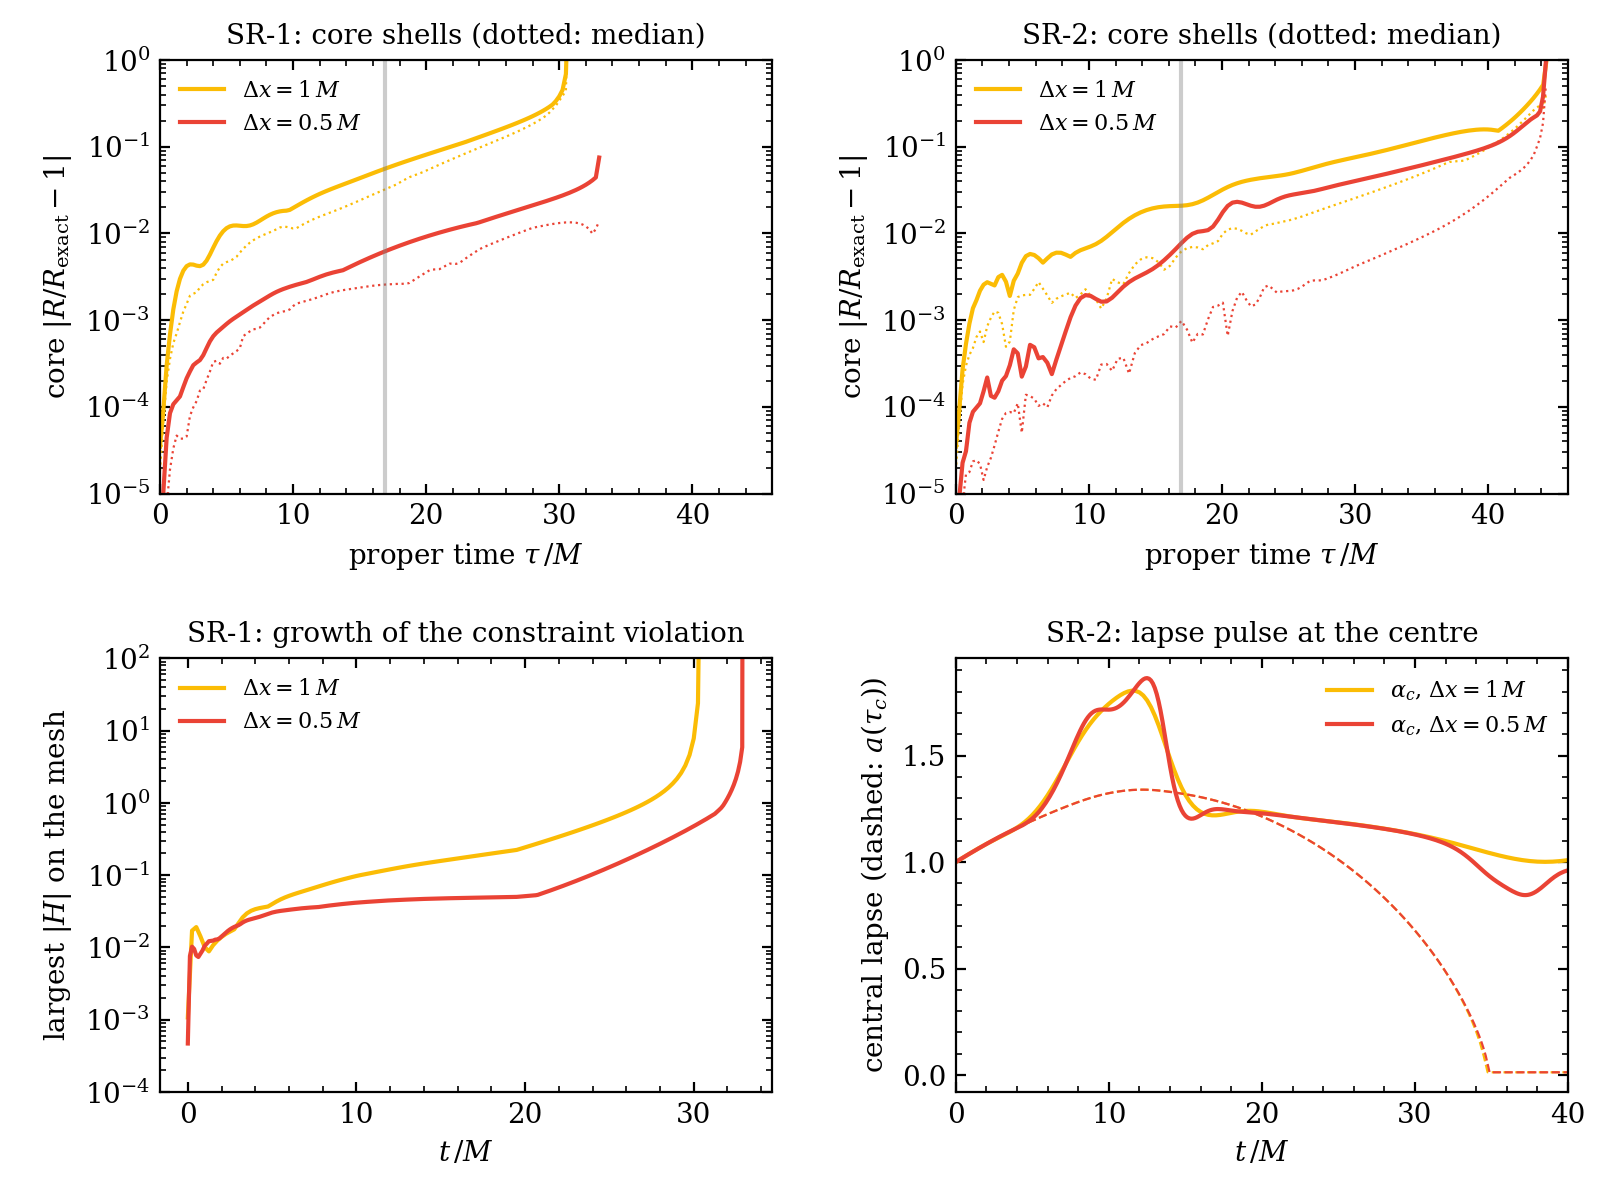
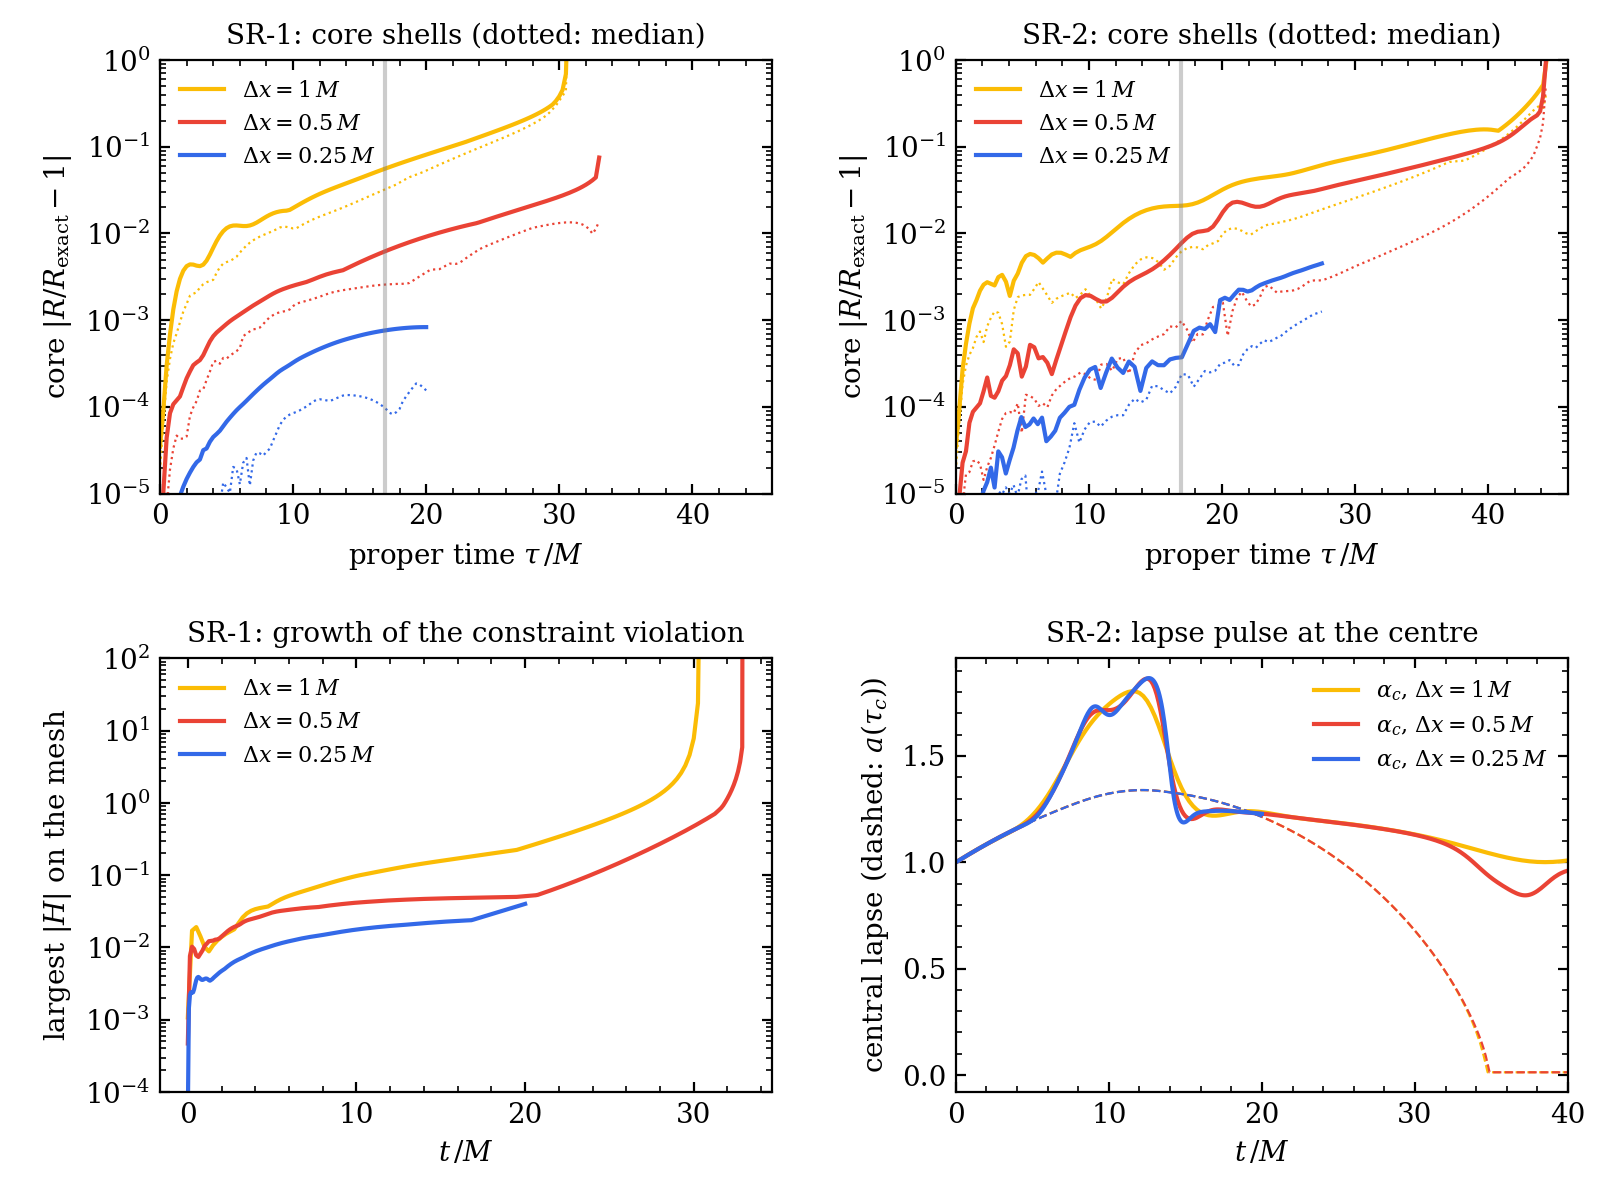
runs_ball: dx = M/4 outcome (prediction R): R1, R3, R4 hold; R2 holds for SR-1, fails for SR-2 on the turnaround time
SR-1 at dx = M/4 (A-emd-pbh-20261115-164539-0b18e84): mean core turnaround error -0.0125 M,
largest core |eps| at tau = 16.894 7.6e-4, largest |H| at t = 20 0.040. SR-2
(A-emd-pbh-20261115-164541-0b18e84): +0.031 M, 3.7e-4; lapse pulse > 0.1 at t = 6.625, peak
1.87. Core-shell errors fall at apparent order 3.0 (SR-1) and 4.3 (SR-2) between M/2 and M/4.
Analysis A-20261115-182657-53da696 (nrpic-run); figures sr*_n256L32_* and the updated summary.

Claude-Session: https://claude.ai/code/session_01VD79cUYemmpt27M8dtYPfW

diff --git a/tracks/A-emd-pbh/runs_ball/JOURNAL.md b/tracks/A-emd-pbh/runs_ball/JOURNAL.md
@@ -287,3 +287,31 @@ chosen as before. Cost about 0.12 card-hours per gauge.
   core_requests-b and core_scalar-2 were published, neither with a lapse option).
 - Card time: 0.28 card-hours used (0.104 + 0.149 + 0.028); the two pending runs ask at
   most 2 x 0.25 by their wall limits (about 0.12 each expected).
+
+## 2026-11-15, entry 6 (lead of A-emd-pbh): outcome of prediction R (dx = M/4 to t = 20)
+
+Runs closed with `runreg.py finish` by the lead: A-emd-pbh-20261115-164539-0b18e84 (SR-1,
+357 s = 0.099 card-hours) and -164541-0b18e84 (SR-2, 361 s = 0.100), both exit 0 at t = 20.
+Analysis with the commands of `after_m4.sh`, registered with `harness/bin/nrpic-run` (the
+tree was clean): run A-20261115-182657-53da696 (`sr*_n256L32_*` figures and the updated
+`fig_resolution_summary.png` in `figs/`, looked at). The lead's own reader agrees
+(A-20261115-182314-bebd0cf: SR-1 mean dtau_ta -0.0125 M, largest core |eps| at 16.894
+7.5e-4; SR-2 +0.0306 M, 3.4e-4).
+- R1 HOLDS: both runs finite to t = 20.
+- R2 HOLDS for SR-1 (mean turnaround error -0.0125 M, -0.074 per cent; largest core |eps|
+  at tau = 16.894 7.6e-4 < 2.5e-3); for SR-2 the eps part holds (3.7e-4 < 3e-3) and the
+  turnaround part FAILS (+0.031 M > 0.02 M). Apparent orders between M/2 and M/4: core
+  |eps| at 16.894 3.0 (SR-1) and 4.3 (SR-2), at tau = 8 3.2 and 3.1; R_max 2.2 and 2.3;
+  mean turnaround time 0.85 and 0.50. The turnaround time from a parabola through records
+  0.25 M apart on a flat maximum is not in a clean power law; no order is claimed for it.
+  Caveats: the dx = M/4 runs use a smaller domain ([-32, 32]^3) and a lattice with h = M/4
+  (eight times more particles), so this is the joint limit of mesh and lattice.
+- R3 HOLDS: SR-1 largest |H| at t = 20 is 0.040 (0.051 at M/2, 0.24 at M); but the run ends
+  before the exponential phase that blows up the coarser runs after t ~ 20, so whether the
+  finer mesh delays the blow-up is not tested.
+- R4 HOLDS: SR-2 |alpha_c/a - 1| > 0.1 first at t = 6.625 (6.5 and 6.625 at M and M/2);
+  central lapse peak 1.866 at t = 12.6 (1.80, 1.86): the pulse is a property of the gauge.
+- Seen in `sr1_n256L32_fields.png`: at t = 16.9 the constraint-damping variable Theta is
+  -5e-4 near |x| = 20, a signal from the outflow boundary at 32 M travelling inward through
+  vacuum; the envelope edge is at R ~ 18 M then, the core is not reached before t = 20.
+

diff --git a/tracks/A-emd-pbh/runs_ball/README.md b/tracks/A-emd-pbh/runs_ball/README.md
@@ -27,14 +27,11 @@ see the Requests. Figures of the pathologies: `figs/sr1_n256_gauge.png`,
 `figs/sr2_n256_fields.png`, `figs/sr2_n256_horizon.png`, `figs/sr2_n128_gauge.png`;
 resolution comparison `figs/fig_resolution_summary.png`.
 
-Pending when this was written: the dx = M/4 runs to t = 20 (prediction R, JOURNAL entry
-4): A-emd-pbh-20261115-164539-0b18e84 (SR-1, Slurm job 4461) and
-A-emd-pbh-20261115-164541-0b18e84 (SR-2, job 4462), queued. When they have finished:
-
-    cd /data/haiyangw/nrpic/wt/A-emd-pbh
-    for r in A-emd-pbh-20261115-164539-0b18e84 A-emd-pbh-20261115-164541-0b18e84; do
-      .venv/bin/python tracks/A-emd-pbh/runs_ball/runreg.py finish $r; done
-    bash tracks/A-emd-pbh/runs_ball/after_m4.sh      # registered analysis + three-resolution summary
+dx = M/4 to t = 20 (prediction R, JOURNAL entry 4; outcome entry 6, written by the lead):
+A-emd-pbh-20261115-164539-0b18e84 (SR-1) and -164541-0b18e84 (SR-2), analysis
+A-20261115-182657-53da696. R1, R3, R4 hold; R2 holds for SR-1 (mean turnaround error
+-0.0125 M, core |eps| at tau = 16.894 7.6e-4) and fails for SR-2 on the turnaround time
+(+0.031 M); core-shell errors fall at apparent order 3.0-4.3 between M/2 and M/4.
 
 ## What is here
 
